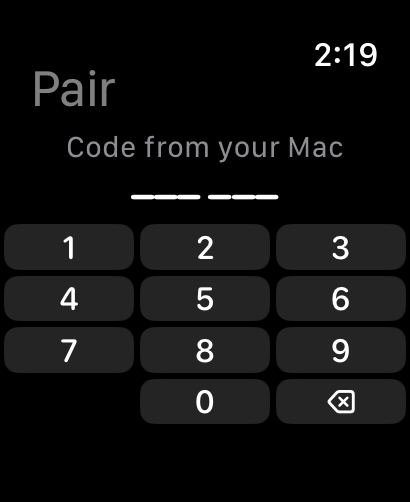
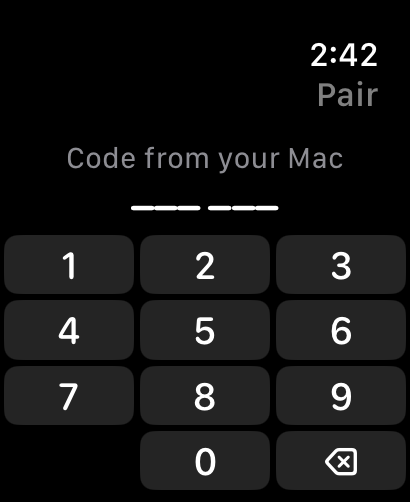
Prepare for the App Store: Wrist Bridge name, demo mode, privacy policy
- The app is "Wrist Bridge" on the watch; complications are Sessions and Usage
- Demo mode: pairing code 000 000 shows sample sessions, for App Review
- Pairing pad uses the whole screen with larger keys
- Usage bars move below the sessions; shorter "last active" times
- PRIVACY.md and App Store screenshots in docs/appstore
- Build 3

diff --git a/ClaudeWatch/Shared/Demo.swift b/ClaudeWatch/Shared/Demo.swift
@@ -1,0 +1,107 @@
+import Foundation
+
+/// A pretend Mac, for App Review and screenshots: entering the code 000 000 when pairing turns it
+/// on. It answers the same API as the bridge with sample sessions, entirely on the watch.
+enum Demo {
+    static let code = "000000"
+
+    static var isOn: Bool {
+        get { Bridge.shared.bool(forKey: "demoMode") }
+        set { Bridge.shared.set(newValue, forKey: "demoMode") }
+    }
+
+    private struct Session {
+        let id: String
+        let title: String
+        let project: String
+        let state: String
+        let minutesAgo: Double
+        var turns: [[String: String]]
+        var choices: [String: Any]?
+    }
+
+    // Messages sent in this run, so a reply shows up the way it would from a real Mac.
+    nonisolated(unsafe) private static var sent: [String: [[String: String]]] = [:]
+
+    private static var sessions: [Session] {
+        [
+            Session(id: "00000000-0000-4000-8000-000000000001", title: "Add dark mode to settings", project: "web-app",
+                    state: "open", minutesAgo: 2,
+                    turns: [["role": "user", "text": "Add a dark mode toggle to the settings page"],
+                            ["role": "assistant", "text": "Added the toggle and a theme hook. Should it follow the system setting by default?"]],
+                    choices: ["question": "Follow the system setting by default?", "options": ["Yes, follow system", "No, start light"]]),
+            Session(id: "00000000-0000-4000-8000-000000000002", title: "Fix flaky checkout test", project: "shop-api",
+                    state: "active", minutesAgo: 0.5,
+                    turns: [["role": "user", "text": "The checkout test fails about one run in ten. Find out why."],
+                            ["role": "assistant", "text": "Reproduced it: the test races the payment webhook. Adding a wait for the order state now."]]),
+            Session(id: "00000000-0000-4000-8000-000000000003", title: "Write release notes for 2.4", project: "mobile",
+                    state: "idle", minutesAgo: 95,
+                    turns: [["role": "user", "text": "Draft release notes for 2.4 from the merged PRs"],
+                            ["role": "assistant", "text": "Drafted RELEASE_NOTES.md: offline mode, faster sync, and 12 fixes. Ready for your review."]]),
+            Session(id: "00000000-0000-4000-8000-000000000004", title: "Upgrade to the new SDK", project: "infra",
+                    state: "idle", minutesAgo: 60 * 26,
+                    turns: [["role": "user", "text": "Upgrade the services to the new SDK version"],
+                            ["role": "assistant", "text": "All 6 services upgraded and tests pass. Two deprecated calls were replaced."]]),
+        ]
+    }
+
+    /// Answers one API call like the bridge would. Returns the JSON body.
+    static func answer(_ method: String, _ path: String, body: [String: Any]?) throws -> Data {
+        let now = Date.now.timeIntervalSince1970
+        let parts = path.split(separator: "/").map(String.init)
+
+        if path == "/status" {
+            return try json([
+                "needsYou": 1, "working": 1, "idle": 2,
+                "top": ["id": sessions[0].id, "title": sessions[0].title, "question": "Follow the system setting by default?"],
+                "usage": ["session": ["used": 0.42, "resetsAt": now + 2 * 3600],
+                          "week": ["used": 0.27, "resetsAt": now + 4 * 86400]],
+            ])
+        }
+        if path == "/sessions" && method == "GET" {
+            return try json(["sessions": sessions.map { s in
+                [
+                    "id": s.id, "title": s.title, "project": s.project, "state": s.state,
+                    "updatedAt": now - s.minutesAgo * 60, "preview": s.turns.last?["text"] ?? "",
+                    "needsYou": s.choices != nil && sent[s.id] == nil, "watchCopy": false,
+                ] as [String: Any]
+            }])
+        }
+        if path == "/sessions" && method == "POST" {
+            // "New session": a sample one that answers at once.
+            let text = body?["text"] as? String ?? ""
+            let id = "00000000-0000-4000-8000-0000000000\(String(format: "%02d", 10 + sent.count))"
+            sent[id] = [["role": "user", "text": text], ["role": "assistant", "text": reply(to: text)]]
+            return try json(["id": id, "title": text])
+        }
+        if parts.count == 3, parts[0] == "sessions", parts[2] == "message" {
+            let text = body?["text"] as? String ?? ""
+            sent[parts[1], default: []] += [["role": "user", "text": text], ["role": "assistant", "text": reply(to: text)]]
+            return try json(["id": parts[1]])
+        }
+        if parts.count == 2, parts[0] == "sessions" {
+            let id = parts[1]
+            let extra = sent[id] ?? []
+            if let s = sessions.first(where: { $0.id == id }) {
+                return try json([
+                    "id": id, "title": s.title, "project": s.project, "state": extra.isEmpty ? s.state : "open",
+                    "turns": s.turns + extra, "choices": extra.isEmpty ? (s.choices as Any? ?? NSNull()) : NSNull(),
+                    "watchCopy": false, "canStop": false,
+                ])
+            }
+            return try json([
+                "id": id, "title": extra.first?["text"] ?? "New session", "project": "demo", "state": "idle",
+                "turns": extra, "watchCopy": false, "canStop": false,
+            ])
+        }
+        throw BridgeError(message: "Not available in the demo")
+    }
+
+    private static func reply(to text: String) -> String {
+        "This is the demo, so nothing ran. Paired with your Mac, the Claude Code session would do this and answer here: \(text)"
+    }
+
+    private static func json(_ value: Any) throws -> Data {
+        try JSONSerialization.data(withJSONObject: value)
+    }
+}

diff --git a/ClaudeWatch/ClaudeWatch/ClaudeWatchApp.swift b/ClaudeWatch/ClaudeWatch/ClaudeWatchApp.swift
@@ -35,11 +35,18 @@ final class Router: ObservableObject {
 /// Signs up for alerts, answers from their buttons, and opens the right session when one is tapped.
 final class AppDelegate: NSObject, WKApplicationDelegate, UNUserNotificationCenterDelegate {
     func applicationDidFinishLaunching() {
+        #if DEBUG
+        let args = ProcessInfo.processInfo.arguments
+        if args.contains("-demo") { Demo.isOn = true } // simulator screenshots
+        if let i = args.firstIndex(of: "-open"), i + 1 < args.count {
+            Task { @MainActor in Router.shared.open = SessionRoute(id: args[i + 1], title: "Session") }
+        }
+        #endif
         let center = UNUserNotificationCenter.current()
         center.delegate = self
         center.setNotificationCategories(Alerts.categories)
         #if DEBUG
-        if ProcessInfo.processInfo.arguments.contains("-showPairing") { return } // screenshots: no permission prompt
+        if ProcessInfo.processInfo.arguments.contains("-showPairing") || ProcessInfo.processInfo.arguments.contains("-demo") { return } // screenshots: no permission prompt
         #endif
         Task { @MainActor in
             let granted = (try? await center.requestAuthorization(options: [.alert, .sound])) ?? false
@@ -111,10 +118,6 @@ struct SessionsView: View {
                     Text(error).font(.footnote).foregroundStyle(.red)
                 }
 
-                if let usage = status?.usage, usage.headline != nil {
-                    UsageRow(usage: usage)
-                }
-
                 ForEach(sessions) { session in
                     NavigationLink(value: SessionRoute(id: session.id, title: session.title)) {
                         SessionRow(session: session)
@@ -123,6 +126,10 @@ struct SessionsView: View {
 
                 if loaded && sessions.isEmpty && error == nil {
                     Text("No sessions yet").foregroundStyle(.secondary)
+                }
+
+                if let usage = status?.usage, usage.headline != nil {
+                    UsageRow(usage: usage)
                 }
 
                 NavigationLink("Settings") { SettingsView() }
@@ -199,11 +206,10 @@ struct SessionRow: View {
                 // The bar's color carries the status; this line says where and when.
                 HStack(spacing: 4) {
                     if session.watchCopy == true { Image(systemName: "applewatch").font(.system(size: 9)) }
-                    Text(session.project).lineLimit(1)
+                    Text(session.project).lineLimit(1).layoutPriority(1)
                     Text("·")
-                    Text(Date(timeIntervalSince1970: session.updatedAt), format: .relative(presentation: .named))
+                    Text(Date(timeIntervalSince1970: session.updatedAt), format: .relative(presentation: .numeric, unitsStyle: .abbreviated))
                         .lineLimit(1)
-                        .layoutPriority(1)
                 }
                 .font(.caption2)
                 .foregroundStyle(.secondary)
@@ -258,12 +264,25 @@ struct SettingsView: View {
     @AppStorage("baseURL", store: Bridge.shared) private var baseURL = ""
     @AppStorage("token", store: Bridge.shared) private var token = ""
     @State private var pairing = Relay.pairing
+    @State private var demo = Demo.isOn
     @State private var confirmUnpair = false
     @State private var confirmRotate = false
     @State private var note: String?
 
     var body: some View {
         Form {
+            if demo {
+                Section {
+                    Text("Showing sample sessions.")
+                    Button("Leave the demo") {
+                        Demo.isOn = false
+                        demo = false
+                        WidgetCenter.shared.reloadAllTimelines()
+                    }
+                } header: {
+                    Text("Demo")
+                }
+            }
             Section {
                 if let pairing, pairing.confirmed {
                     LabeledContent("Paired with", value: pairing.macName)
@@ -375,9 +394,13 @@ struct PairView: View {
                     .minimumScaleFactor(0.8)
                     CodePad(code: $code, working: working) { Task { await join() } }
                 }
+                // The keys use the screen down to its rounded bottom edge.
+                .padding(.bottom, 6)
+                .ignoresSafeArea(edges: .bottom)
             }
         }
         .navigationTitle("Pair")
+        .toolbarTitleDisplayMode(.inline)
         .task(id: check) {
             // Wait for the person to confirm on the Mac.
             guard check != nil else { return }
@@ -397,6 +420,16 @@ struct PairView: View {
     }
 
     private func join() async {
+        if code == Demo.code {
+            // For App Review and screenshots: sample sessions, no Mac needed.
+            Demo.isOn = true
+            paired = true
+            WKInterfaceDevice.current().play(.success)
+            WidgetCenter.shared.reloadAllTimelines()
+            try? await Task.sleep(for: .seconds(1))
+            dismiss()
+            return
+        }
         guard code.count == 6, !relay.isEmpty, !working else { return }
         working = true
         defer { working = false }
@@ -437,7 +470,7 @@ struct CodePad: View {
                         } else {
                             Button { press(key) } label: {
                                 Text(key)
-                                    .font(.system(size: 17, weight: .medium, design: .rounded))
+                                    .font(.system(size: 20, weight: .medium, design: .rounded))
                                     .frame(maxWidth: .infinity, maxHeight: .infinity)
                                     .background(Color.white.opacity(0.14), in: RoundedRectangle(cornerRadius: 7))
                                     .contentShape(Rectangle())

diff --git a/ClaudeWatch/Shared/Bridge.swift b/ClaudeWatch/Shared/Bridge.swift
@@ -125,7 +125,7 @@ enum Bridge {
     static var baseURL: String { setting("baseURL") ?? "" }
     static var token: String { setting("token") ?? "" }
     static var usesDirect: Bool { !Relay.isPaired && !baseURL.isEmpty && !token.isEmpty }
-    static var isConfigured: Bool { Relay.isPaired || usesDirect }
+    static var isConfigured: Bool { Demo.isOn || Relay.isPaired || usesDirect }
 
     private static func setting(_ key: String) -> String? {
         let value = (shared.string(forKey: key) ?? UserDefaults.standard.string(forKey: key))?
@@ -181,6 +181,7 @@ enum Bridge {
     static func registerDevice(_ token: String, sandbox: Bool, kind: String = "app") async throws {
         // Remembered, so they can be sent again after pairing.
         shared.set(token, forKey: "pushToken.\(kind)")
+        if Demo.isOn { return }
         if Relay.isPaired {
             try await Relay.registerDevice(token, sandbox: sandbox, kind: kind)
         } else if usesDirect {
@@ -217,6 +218,9 @@ enum Bridge {
     }
 
     private static func request<T: Decodable>(_ method: String, _ path: String, body: [String: Any]?) async throws -> T {
+        if Demo.isOn {
+            return try JSONDecoder().decode(T.self, from: Demo.answer(method, path, body: body))
+        }
         if Relay.isPaired {
             let (status, data) = try await Relay.call(method, path, body: body)
             guard (200..<300).contains(status) else {

diff --git a/ClaudeWatch/ClaudeWidgets/ClaudeWidgets.swift b/ClaudeWatch/ClaudeWidgets/ClaudeWidgets.swift
@@ -67,7 +67,7 @@ struct SessionsWidget: Widget {
                 .widgetURL(entry.status?.top.map { AppLink.session($0.id) } ?? AppLink.home)
         }
         .pushHandler(WatchFacePush.self)
-        .configurationDisplayName("Claude sessions")
+        .configurationDisplayName("Sessions")
         .description("What your sessions are doing, and which one needs you.")
         .supportedFamilies([.accessoryRectangular, .accessoryCircular, .accessoryInline, .accessoryCorner])
     }
@@ -167,7 +167,7 @@ struct UsageWidget: Widget {
                 .widgetURL(AppLink.home)
         }
         .pushHandler(WatchFacePush.self)
-        .configurationDisplayName("Claude usage")
+        .configurationDisplayName("Usage")
         .description("How much of your usage limit is spent.")
         .supportedFamilies([.accessoryCircular, .accessoryCorner, .accessoryRectangular, .accessoryInline])
     }

diff --git a/PRIVACY.md b/PRIVACY.md
@@ -1,0 +1,50 @@
+# Privacy policy
+
+*Wrist Bridge* (this project's Apple Watch app) and its relay service. Last updated November 23, 2026.
+
+Wrist Bridge lets you use the Claude Code sessions on your own Mac from your Apple Watch. It's
+built so that your work stays between your watch and your Mac.
+
+## What we don't collect
+
+- No accounts, no names or email addresses, no analytics, no advertising, and no tracking.
+- We don't see your prompts, Claude's replies, your session list, or your code. These travel
+  between your watch and your Mac encrypted end to end, with a key only those two devices have.
+
+## What the relay handles
+
+To connect your watch to your Mac without either one needing a public address, the app uses a
+relay service we run on Cloudflare. It keeps the minimum needed to do that:
+
+- **Random ids and secrets** for your Mac and each paired watch, the devices' public keys, and the
+  time each watch was paired. These are kept until you unpair (`claude-watch unpair`, or Unpair in
+  the app's Settings).
+- **Push tokens**, so it can send alerts to your watch. Apple issues these, and they identify only
+  the app on your device.
+- **Alert text**, while an alert is being sent: the session's title and its question, or the start
+  of its last reply. Apple's push service needs readable text to display an alert. The relay
+  passes it to Apple and doesn't store it.
+- **Short-lived pairing codes**, deleted on use or after 10 minutes.
+
+Cloudflare and Apple process this data as our service providers, under their own privacy
+policies. Cloudflare may keep standard request logs, such as IP addresses, for security.
+
+## On your devices
+
+- **The Mac companion:** the bridge runs on your Mac. It reads your Claude Code sessions there,
+  and keeps its settings in `~/.claude-watch`.
+- **The watch app:** it keeps its pairing key and settings on the watch.
+
+## Demo mode
+
+Entering the code 000 000 shows sample sessions. Nothing leaves the watch in demo mode.
+
+## Your choices
+
+- Unpairing deletes your watch's records from the relay.
+- Removing the app or the bridge deletes their local data.
+- You can run your own relay; the source is public.
+
+## Contact
+
+Open an issue at https://github.com/carpit680/claude-watch/issues.

diff --git a/README.md b/README.md
@@ -176,6 +176,11 @@ More in [SECURITY.md](SECURITY.md).
 
 Bridge logs are in `~/.claude-watch/logs/`.
 
+## Privacy
+
+See [PRIVACY.md](PRIVACY.md). In short: no accounts, analytics or tracking. Your prompts and
+replies are encrypted end to end, and the relay keeps only what it needs to connect and alert.
+
 ## Contributing
 
 See [CONTRIBUTING.md](CONTRIBUTING.md). MIT licensed; see [LICENSE](LICENSE).
